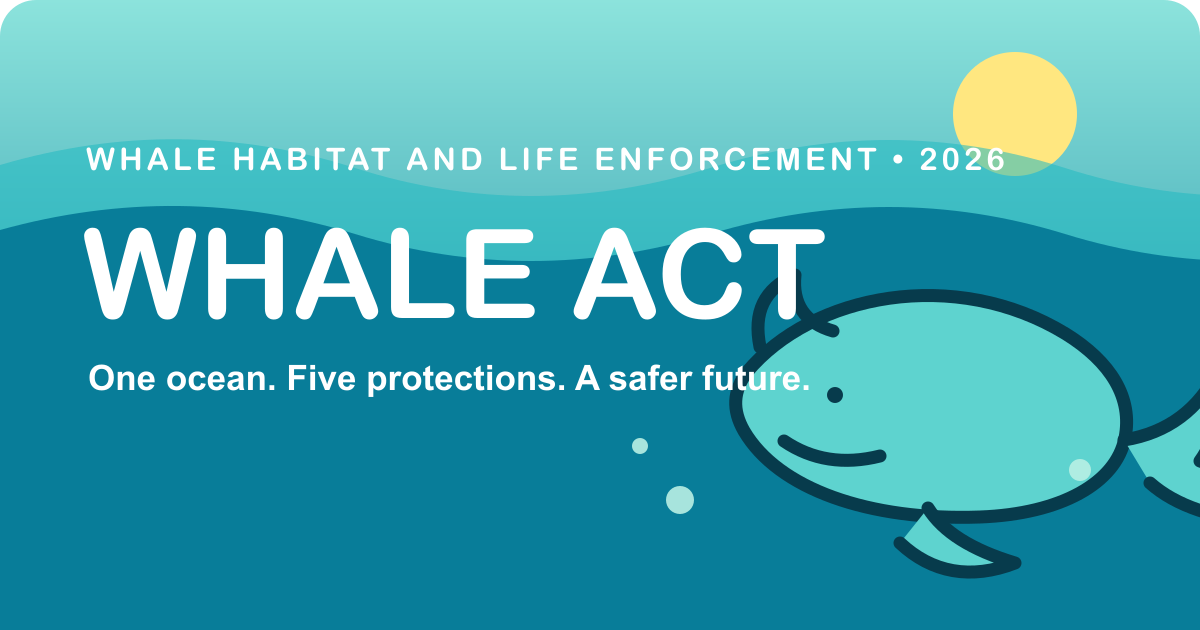
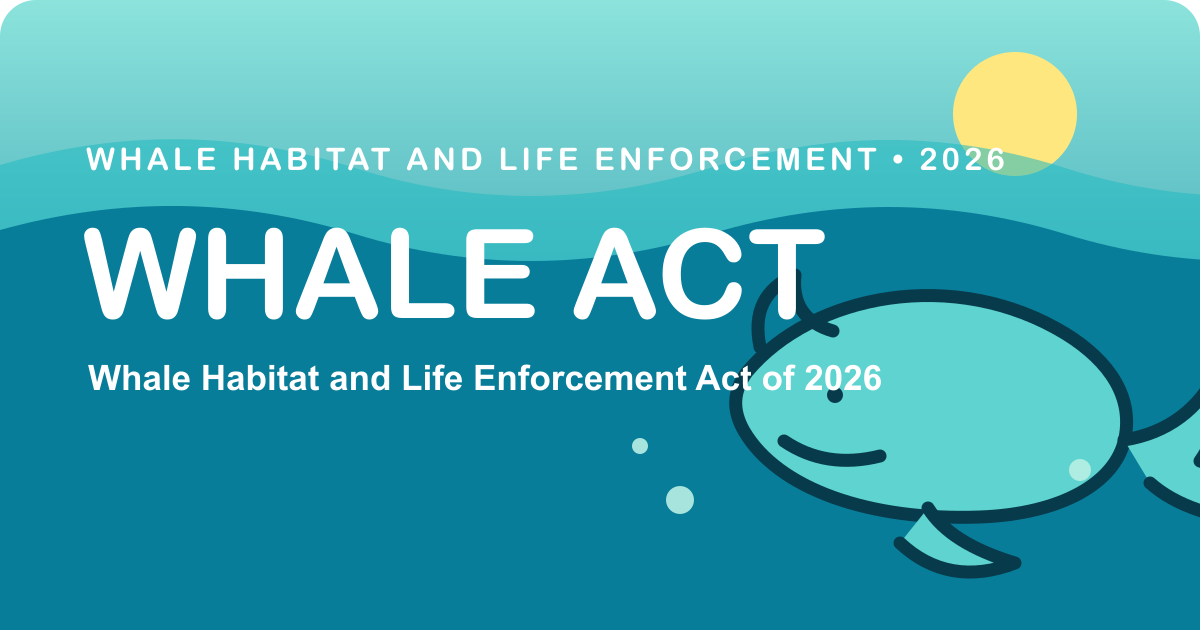
Update WHALE Act hero tagline

Changed region(s): [[0.0617, 0.573, 0.74, 0.6333]]

diff --git a/src/App.tsx b/src/App.tsx
@@ -607,7 +607,7 @@ function App() {
               <div className="bill-badge"><span>H.R. 1929</span> Fictional classroom proposal</div>
               <p className="hero-kicker">Whale Habitat and Life Enforcement</p>
               <h1>WHALE<br /><em>ACT</em></h1>
-              <p className="hero-tagline">One ocean. Five protections.<br />A safer future for whales.</p>
+              <p className="hero-tagline">Whale Habitat and Life<br />Enforcement Act of 2026</p>
               <p className="formal-title">A visual guide to the <strong>Whale Habitat and Life Enforcement (WHALE) Act of 2026</strong></p>
               <div className="hero-actions">
                 <a className="primary-button" href="#zones">Dive into the bill <span>↓</span></a>

diff --git a/index.html b/index.html
@@ -9,7 +9,7 @@
       content="Dive into the Whale Habitat and Life Enforcement (WHALE) Act of 2026, a fictional classroom proposal for safer, quieter oceans."
     />
     <meta property="og:title" content="Whale Habitat and Life Enforcement (WHALE) Act of 2026" />
-    <meta property="og:description" content="One ocean. Five protections. A safer future for whales." />
+    <meta property="og:description" content="Whale Habitat and Life Enforcement Act of 2026" />
     <meta property="og:image" content="%BASE_URL%og-card.png" />
     <title>Whale Habitat and Life Enforcement (WHALE) Act of 2026</title>
   </head>
